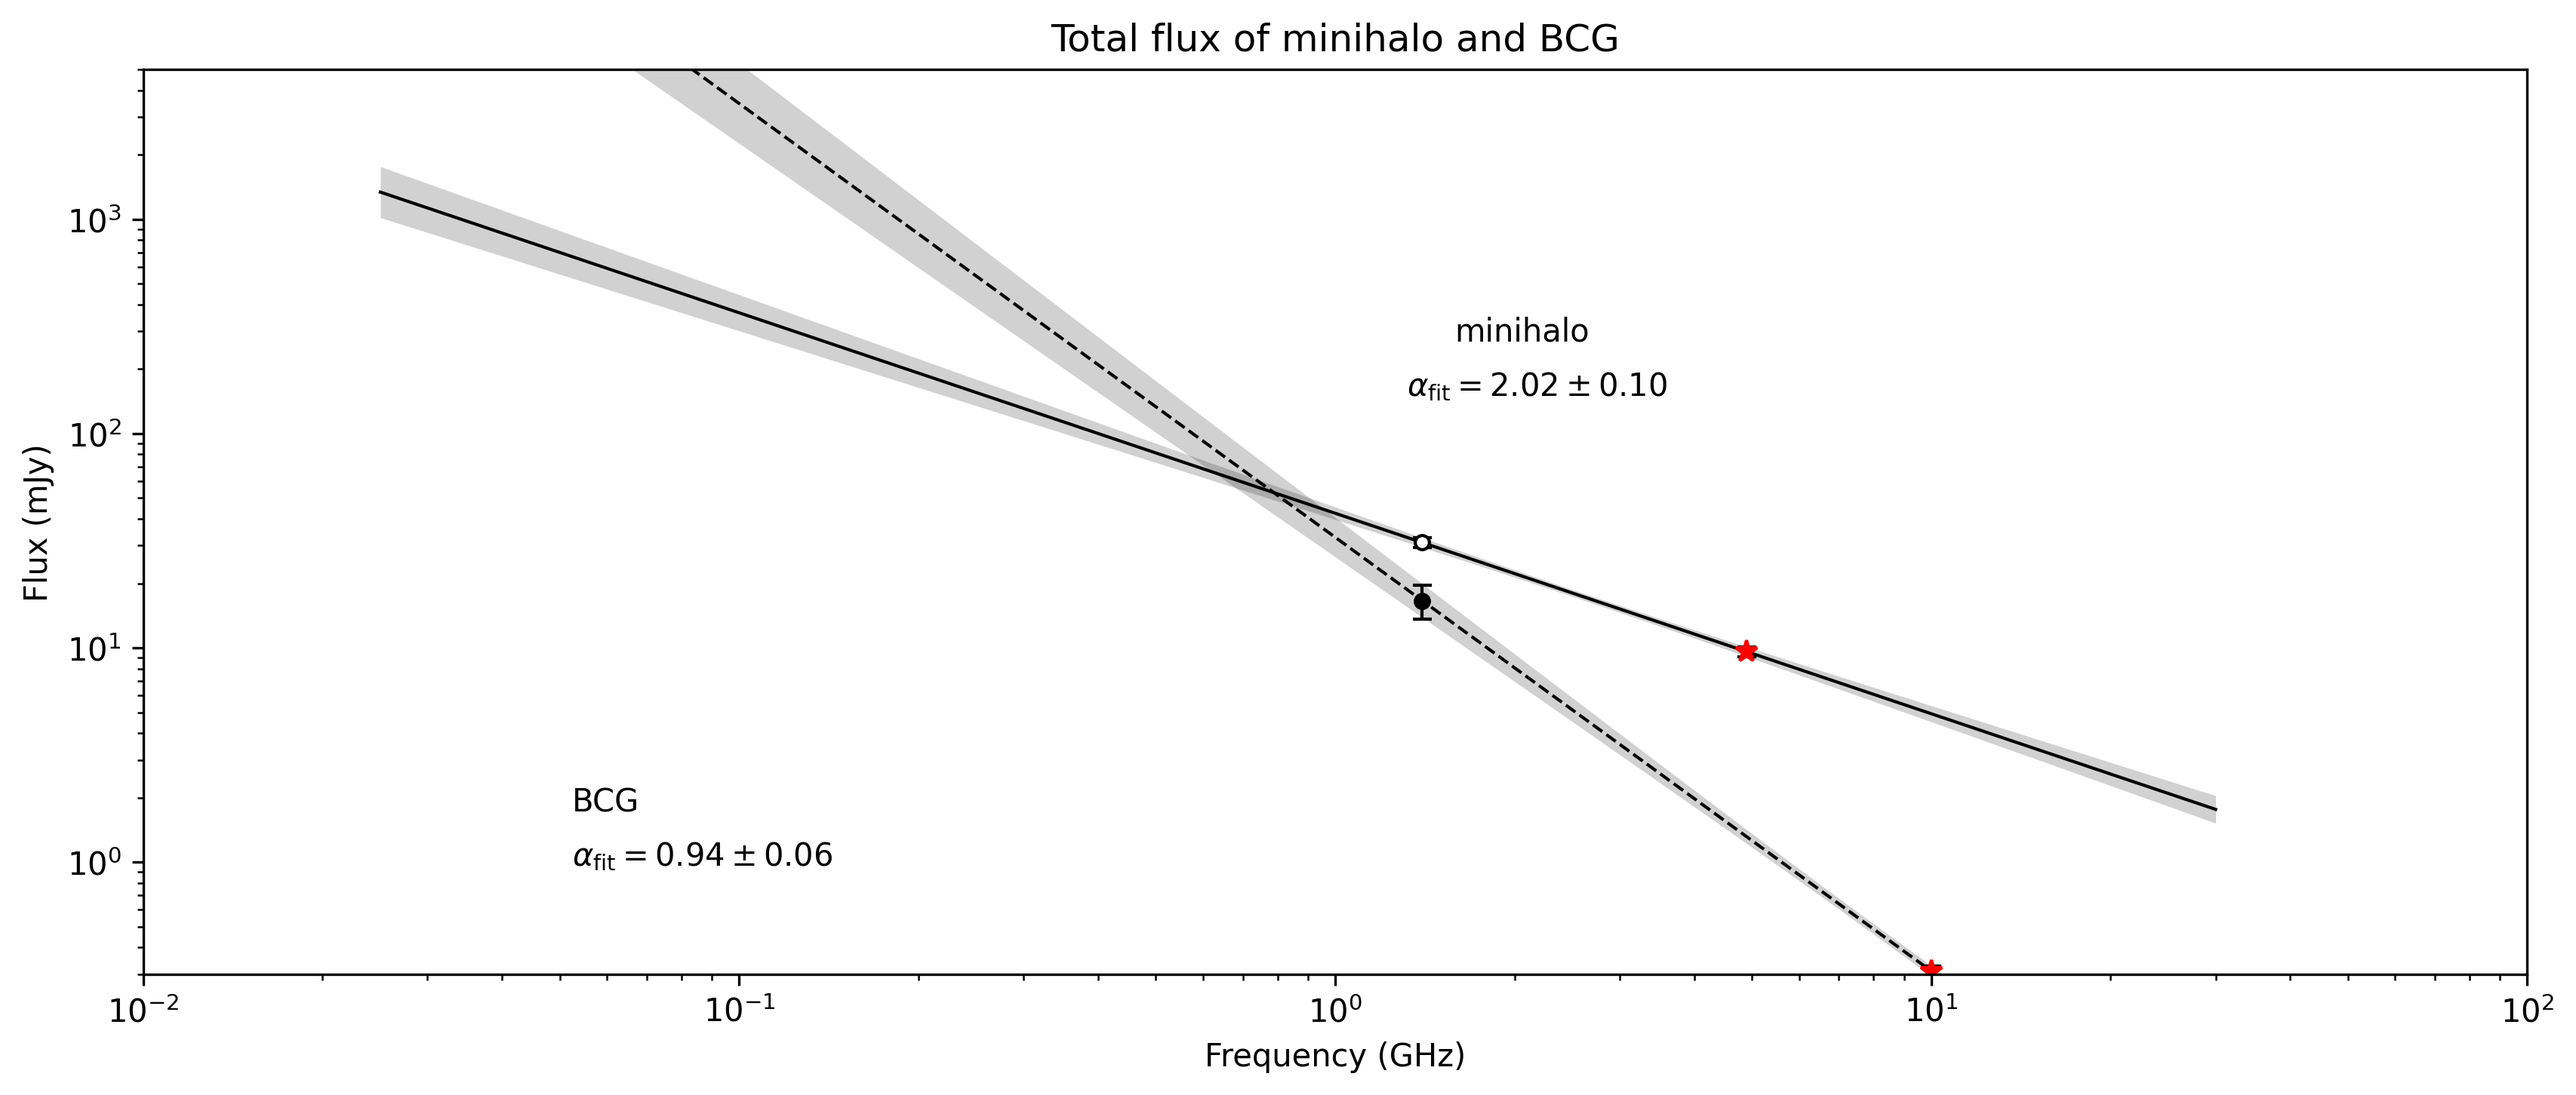
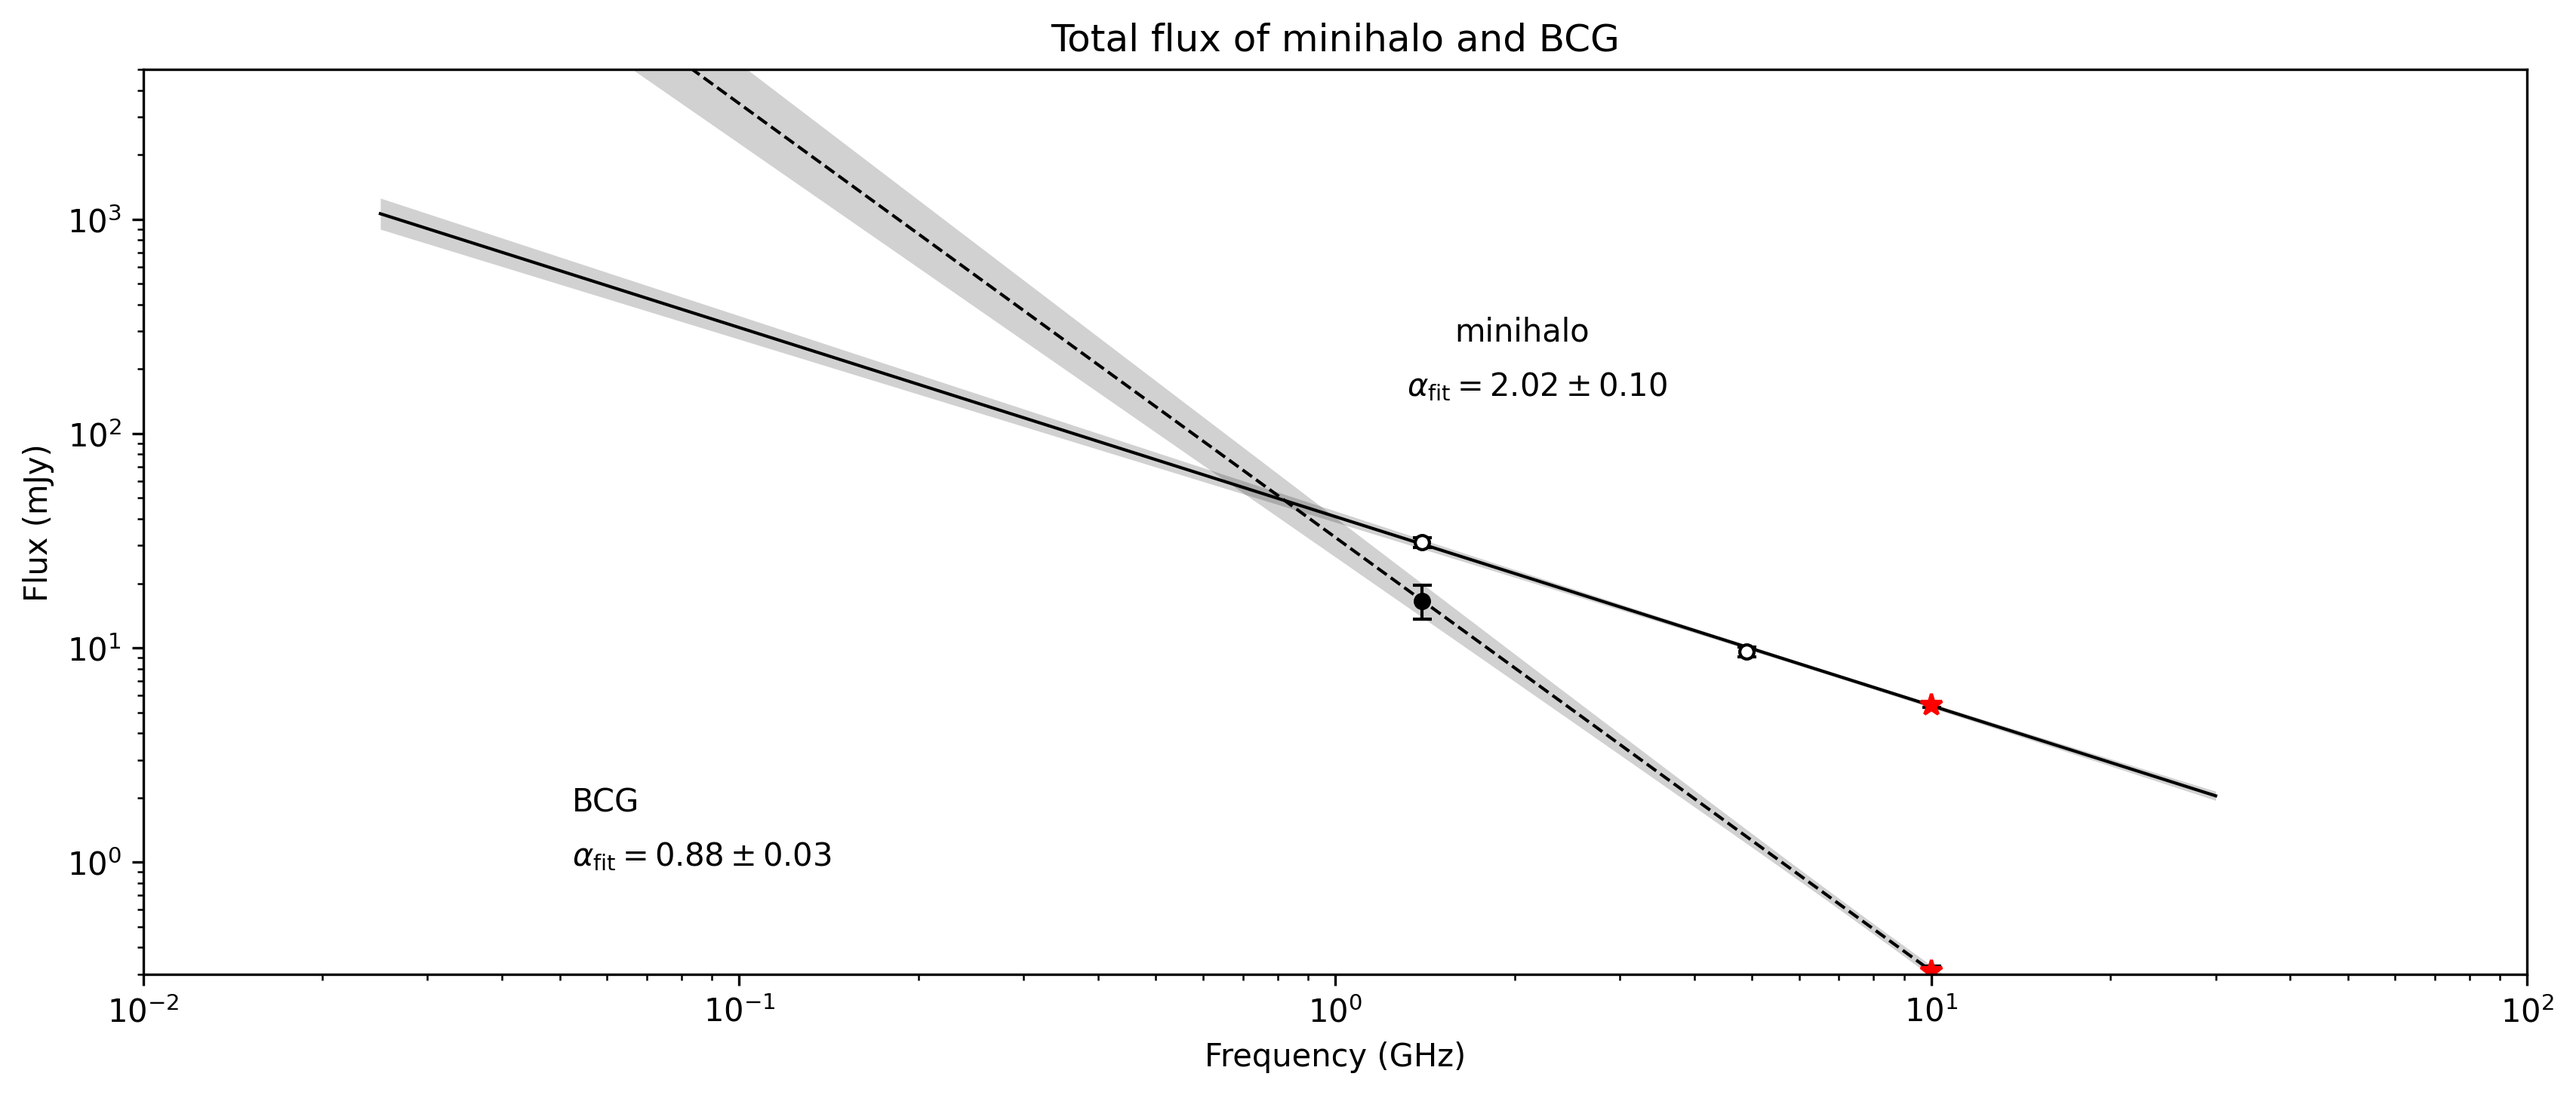
fix: Add my BCG measurement for A478

diff --git a/Image-Processing/A478/minihalo/minihalo_flux.py b/Image-Processing/A478/minihalo/minihalo_flux.py
@@ -229,9 +229,9 @@ mh_freq = np.array([1.40, 10])
 mh_flux = np.array([16.6, 0.31])
 mh_err  = np.array([3, 0.018])
 
-bcg_freq = np.array([1.4, 4.9])
-bcg_flux = np.array([31, 9.6])
-bcg_err  = np.array([1.6, 0.5])
+bcg_freq = np.array([1.4, 4.9, 10])
+bcg_flux = np.array([31, 9.6, 5.41])
+bcg_err  = np.array([1.6, 0.5, 0.13])
 
 # --- Recreate G14 plot with our points ---
 plot_seds(
